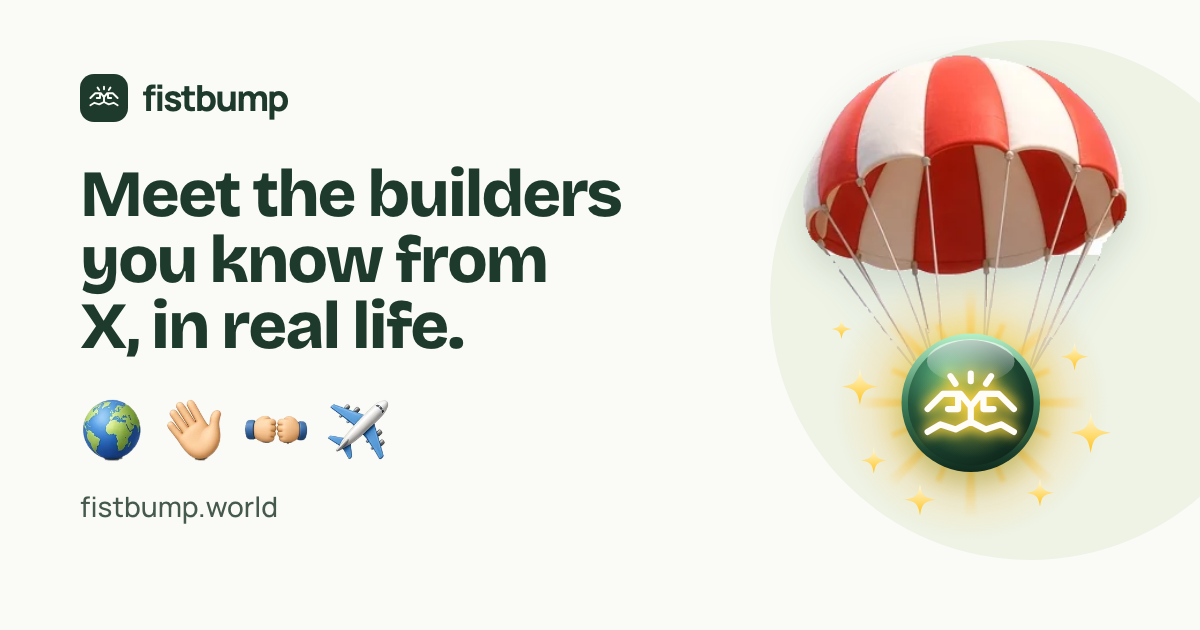
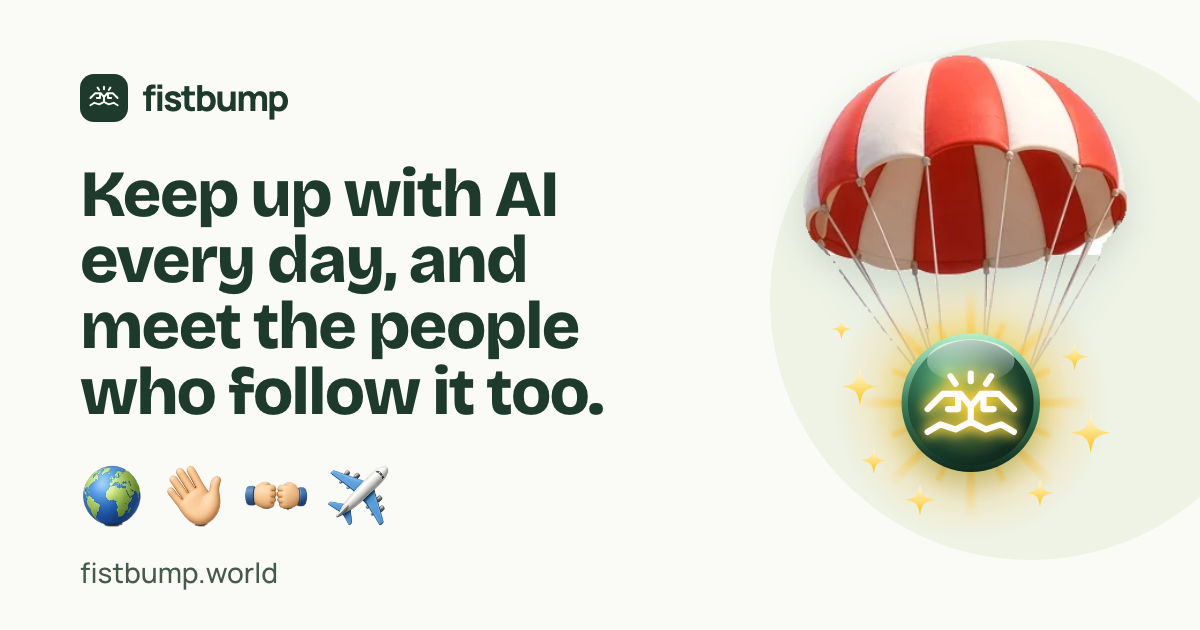
Wording: keep up with AI every day (#332)
* Wording: keep up with AI every day (the owner's choice, 17 Nov)

The website heading, title, link previews and share picture, the app's title,
About and meetup share card now say "Keep up with AI every day, and meet the
people who follow it too.", with the daily AI news, hackathons, events and the
map. The site still says joining needs an X account. All 14 catalogs updated,
old keys removed. Store texts for the owner in docs/OWNER_STEPS.md.

* Wording: manifest, and three translations (Astra)

---------

Changed region(s): [[0.0617, 0.2413, 0.5242, 0.8444], [0.0617, 0.8746, 0.2467, 0.9349]]

diff --git a/index.html b/index.html
@@ -3,10 +3,10 @@
   <head>
     <meta charset="utf-8" />
     <meta name="viewport" content="width=device-width, initial-scale=1" />
-    <title>Fistbump: meet the builders you know from X</title>
+    <title>Fistbump: keep up with AI every day</title>
     <meta
       name="description"
-      content="Fistbump shows the builders you know from X on a world map, so you can meet them for a coffee, a walk or a build session. Free to join."
+      content="Keep up with AI every day: AI news from the big tech companies, hackathons and events near you, and a world map of people into AI to meet. Free to join with an X account."
     />
     <meta name="theme-color" content="#FAFBF6" />
     <!-- Safari on iPhone offers the App Store app at the top of the page. -->
@@ -18,24 +18,24 @@
     <meta property="og:type" content="website" />
     <meta property="og:url" content="https://fistbump.world/" />
     <meta property="og:site_name" content="Fistbump" />
-    <meta property="og:title" content="Fistbump: meet the builders you know from X" />
+    <meta property="og:title" content="Fistbump: keep up with AI every day" />
     <meta
       property="og:description"
-      content="See the builders you know from X on a world map and meet them in person. Free to join."
+      content="Keep up with AI every day: AI news from the big tech companies, hackathons and events near you, and a world map of people into AI to meet. Free to join with an X account."
     />
     <meta property="og:image" content="https://fistbump.world/og.png" />
     <meta property="og:image:width" content="1200" />
     <meta property="og:image:height" content="630" />
     <meta
       property="og:image:alt"
-      content="The Fistbump parachute carrying the Fistbump logo on a round green badge, next to the words: Meet the builders you know from X, in real life."
+      content="The Fistbump parachute carrying the Fistbump logo on a round green badge, next to the words: Keep up with AI every day, and meet the people who follow it too."
     />
     <meta name="twitter:card" content="summary_large_image" />
     <meta name="twitter:site" content="@skatalystai" />
-    <meta name="twitter:title" content="Fistbump: meet the builders you know from X" />
+    <meta name="twitter:title" content="Fistbump: keep up with AI every day" />
     <meta
       name="twitter:description"
-      content="See the builders you know from X on a world map and meet them in person. Free to join."
+      content="Keep up with AI every day: AI news from the big tech companies, hackathons and events near you, and a world map of people into AI to meet. Free to join with an X account."
     />
     <meta name="twitter:image" content="https://fistbump.world/og.png" />
     <!-- The colours: the same chart as the app (src/theme/tokens.css). -->
@@ -706,10 +706,11 @@
             </svg>
           </span>
         </div>
-        <h1>Meet the builders you know from X, in real life.</h1>
+        <h1>Keep up with AI every day, and meet the people who follow it too.</h1>
         <p class="lead">
-          Fistbump puts the people you follow on X, and the people who follow you, on a world map.
-          Suggest a coffee, a walk or a build session, then meet in person.
+          Each day: new models and AI news from the big tech companies, hackathons and events near
+          you, and a world map of people into AI. Say hello, join a game, or meet for a coffee.
+          Joining needs an X account for now.
         </p>
         <!-- deploy-all.sh holds this page back until the app opens: it looks for id="open-app". -->
         <div class="actions">
